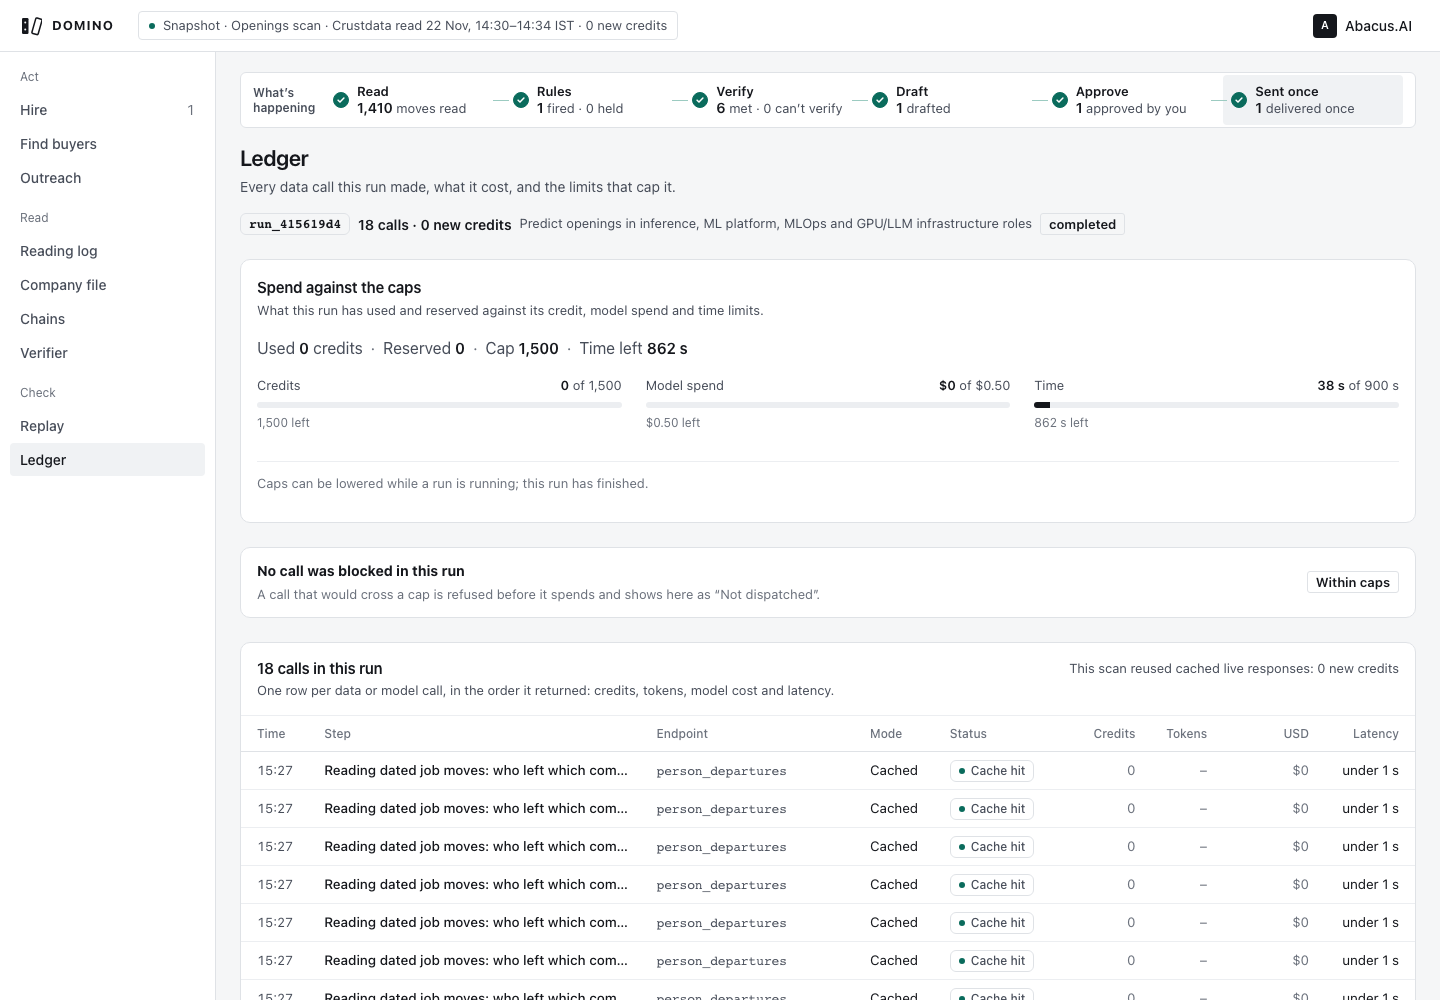
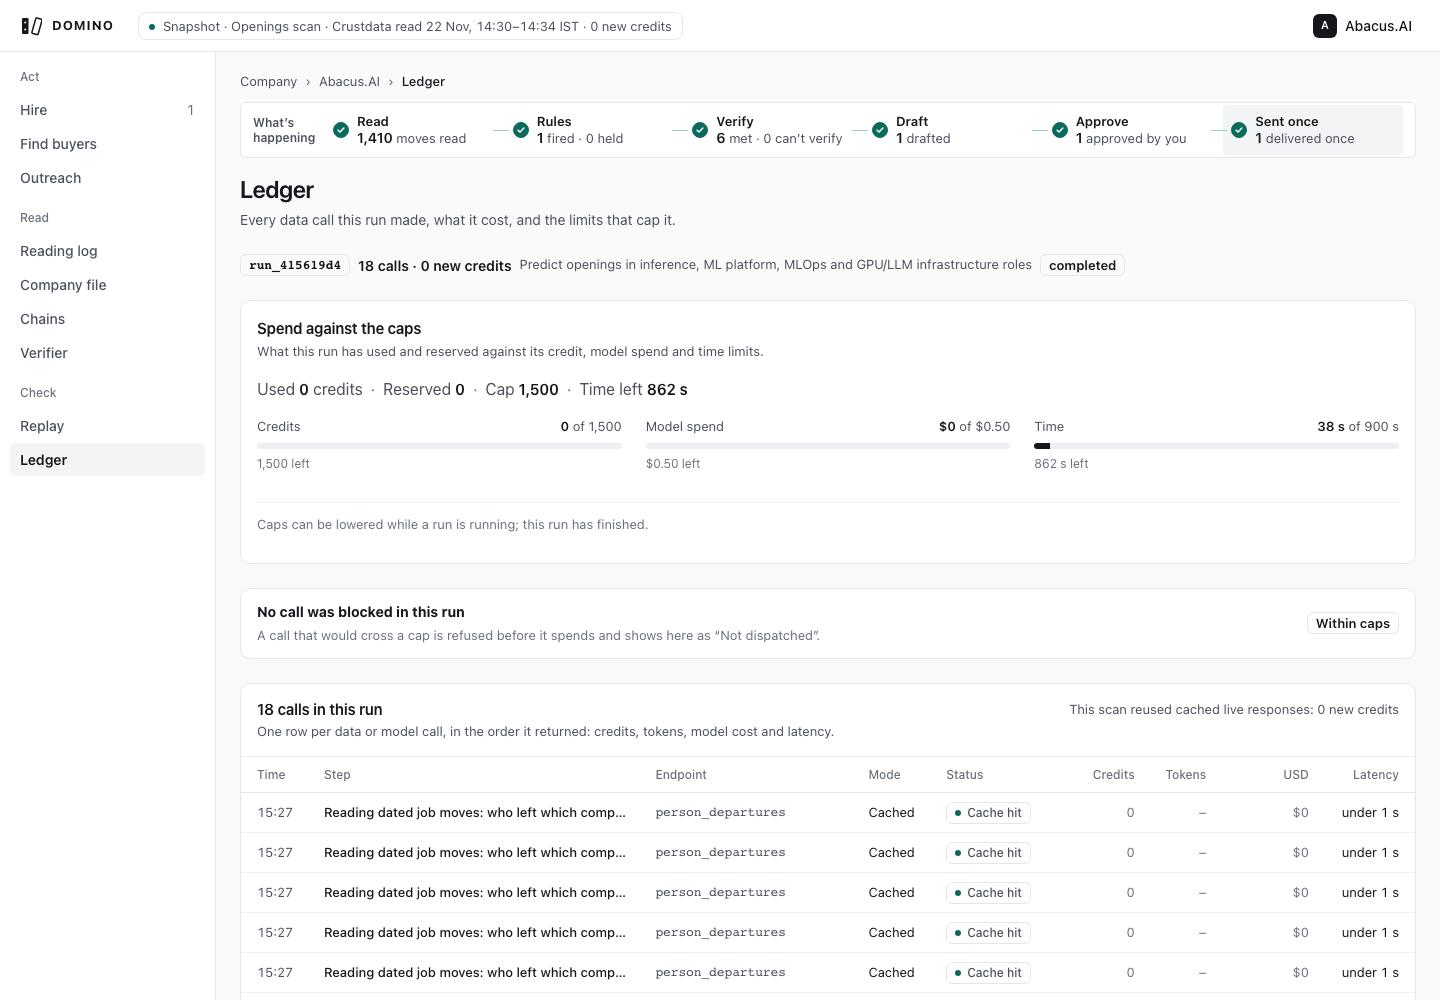
Replay + Ledger: use p5-shell Attio tokens (type scale, radii, hairlines, row/head heights, cell padding) instead of hardcoded px

diff --git a/web2/src/features/ledger/ledger.css b/web2/src/features/ledger/ledger.css
@@ -1,59 +1,59 @@
 .ledger { display: grid; gap: 16px; }
-.lg-run { display: flex; align-items: center; gap: 10px; flex-wrap: wrap; font-size: 14px; }
+.lg-run { display: flex; align-items: center; gap: 10px; flex-wrap: wrap; font-size: var(--fs-body); }
 .lg-req { color: var(--ink-2); max-width: 760px; }
 .lg-strip { padding: 16px; display: grid; gap: 16px; }
-.lg-line { margin: 0; font-size: 18px; display: flex; flex-wrap: wrap; gap: 10px; align-items: baseline; color: var(--ink-2); }
-.lg-line b { color: var(--ink); font-weight: 600; font-variant-numeric: tabular-nums; }
+.lg-line { margin: 0; font-size: var(--fs-h); display: flex; flex-wrap: wrap; gap: 10px; align-items: baseline; color: var(--ink-2); }
+.lg-line b { color: var(--ink); font-weight: var(--w-semi); font-variant-numeric: tabular-nums; }
 .lg-line .sep { color: var(--ink-3); }
 .lg-caps { display: grid; grid-template-columns: repeat(3, minmax(0, 1fr)); gap: 24px; }
-.lg-cap-h { display: flex; justify-content: space-between; font-size: 14px; margin-bottom: 6px; }
-.lg-cap-h b { font-weight: 600; }
-.lg-cap-n { font-size: 13px; color: var(--ink-2); margin-top: 6px; }
-.lg-cap.hit .lg-cap-n { color: var(--ink); font-weight: 600; }
+.lg-cap-h { display: flex; justify-content: space-between; font-size: var(--fs-body); margin-bottom: 6px; }
+.lg-cap-h b { font-weight: var(--w-semi); }
+.lg-cap-n { font-size: var(--fs-ui); color: var(--ink-2); margin-top: 6px; }
+.lg-cap.hit .lg-cap-n { color: var(--ink); font-weight: var(--w-semi); }
 /* ported from the mock (.capbar) */
 .capbar { height: 10px; border-radius: 2px; background: var(--rule-2); overflow: hidden; display: flex; }
 .capbar i { display: block; height: 100%; transition: width 250ms var(--ease); }
 .capbar i.u { background: var(--ink); }
 .capbar i.r { background: repeating-linear-gradient(135deg, var(--acc) 0 3px, transparent 3px 6px); border-left: 1px solid var(--surface); }
 .lg-cap.hit .capbar i.u { background: var(--ink); }
-.lg-lower { display: flex; align-items: center; gap: 10px; flex-wrap: wrap; font-size: 13px; padding-top: 12px; border-top: 1px solid var(--rule-2); }
-.lg-lower label { font-weight: 600; font-size: 13px; }
-.lg-lower input { width: 96px; height: 26px; padding: 0 8px; border: 1px solid var(--rule); border-radius: 4px; background: var(--surface); color: var(--ink); }
+.lg-lower { display: flex; align-items: center; gap: 10px; flex-wrap: wrap; font-size: var(--fs-ui); padding-top: 12px; border-top: var(--hair-2); }
+.lg-lower label { font-weight: var(--w-semi); font-size: var(--fs-ui); }
+.lg-lower input { width: 96px; height: 26px; padding: 0 8px; border: var(--hair); border-radius: var(--r-sm); background: var(--surface); color: var(--ink); }
 .lg-lower input:disabled { color: var(--ink-3); }
 /* ported from the mock (.blocked) */
-.blocked { border: 1px solid var(--ink); border-radius: 6px; background: var(--surface); padding: 14px 16px; display: grid; grid-template-columns: 1fr auto; gap: 12px; align-items: center; font-size: 15px; }
-.blocked .faint { font-size: 13px; margin-top: 4px; }
+.blocked { border: 1px solid var(--ink); border-radius: var(--r); background: var(--surface); padding: 14px 16px; display: grid; grid-template-columns: 1fr auto; gap: 12px; align-items: center; font-size: var(--fs-lead); }
+.blocked .faint { font-size: var(--fs-ui); margin-top: 4px; }
 .blocked.quiet { border-color: var(--rule); }
-.lg-intro { justify-content: space-between; font-size: 15px; }
-.lg-note { font-size: 13px; color: var(--ink-2); }
-.lg-table td { font-size: 14px; }
-.lg-table td.mono { font-size: 13px; white-space: nowrap; }
+.lg-intro { justify-content: space-between; font-size: var(--fs-lead); }
+.lg-note { font-size: var(--fs-ui); color: var(--ink-2); }
+.lg-table td { font-size: var(--fs-body); }
+.lg-table td.mono { font-size: var(--fs-ui); white-space: nowrap; }
 .lg-table tbody tr { height: 34px; }
 .lg-table td.num, .lg-table th.num { white-space: nowrap; }
-.lg-table .lg-bad { color: var(--err); font-weight: 600; }
+.lg-table .lg-bad { color: var(--err); font-weight: var(--w-semi); }
 .lg-table tr.blocked-row td { background: var(--row-hover); }
-.lg-table tfoot td { border-top: 1px solid var(--rule); padding: 10px 12px; font-size: 14px; }
-.lg-drawer { position: fixed; inset: 56px 0 0 auto; width: min(960px, 92vw); background: var(--canvas); border-left: 1px solid var(--rule); padding: 16px 20px; z-index: 20; overflow: auto; }
+.lg-table tfoot td { border-top: var(--hair); padding: 10px 12px; font-size: var(--fs-body); }
+.lg-drawer { position: fixed; inset: 56px 0 0 auto; width: min(960px, 92vw); background: var(--canvas); border-left: var(--hair); padding: 16px 20px; z-index: 20; overflow: auto; }
 .lg-drawer-h { display: flex; justify-content: space-between; align-items: center; margin-bottom: 12px; }
-.lg-drawer-h h2 { font-size: 16px; font-weight: 600; margin: 0; }
+.lg-drawer-h h2 { font-size: var(--fs-sec); font-weight: var(--w-semi); margin: 0; }
 @media (max-width: 900px) { .lg-caps { grid-template-columns: 1fr; } }
 /* Schibsted tabular figures space "." and "," wide ("3. 50"); keep proportional figures, right-aligned. */
 .ledger .num, .ledger [data-num], .lg-line b { font-variant-numeric: normal; }
-.ledger .panel > header h2 { font-size: 15px; }
+.ledger .panel > header h2 { font-size: var(--fs-lead); }
 .lg-table td.lg-step { max-width: 380px; white-space: nowrap; overflow: hidden; text-overflow: ellipsis; }
 .lg-table tbody td { padding-top: 7px; padding-bottom: 7px; }
-.lg-sum { font-weight: 600; font-size: 14px; }
+.lg-sum { font-weight: var(--w-semi); font-size: var(--fs-body); }
 /* p4 polish: section heading + one-line description, scrolling data grid with a sticky header, 4px-grid cells */
 .lg-sec-h { display: grid; gap: 2px; }
-.lg-sec-h h2 { font-size: 15px; font-weight: 600; margin: 0; color: var(--ink); }
-.lg-sec-h span { font-size: 13px; font-weight: 400; color: var(--ink-2); }
-.lg-strip .lg-line { font-size: 16px; }
+.lg-sec-h h2 { font-size: var(--fs-lead); font-weight: var(--w-semi); margin: 0; color: var(--ink); }
+.lg-sec-h span { font-size: var(--fs-ui); font-weight: 400; color: var(--ink-2); }
+.lg-strip .lg-line { font-size: var(--fs-sec); }
 .lg-scroll { max-height: 560px; overflow: auto; }
 .lg-scroll:focus-visible { outline: 2px solid var(--acc); outline-offset: -2px; }
-.lg-table thead th { position: sticky; top: 0; z-index: 1; background: var(--surface); padding: 10px 16px; font-size: 12px; font-weight: 500; color: var(--ink-2); box-shadow: inset 0 -1px 0 var(--rule); border-bottom: 0; }
+.lg-table thead th { position: sticky; top: 0; z-index: 1; background: var(--surface); padding: 10px 16px; font-size: var(--fs-cap); font-weight: var(--w-med); color: var(--ink-2); box-shadow: inset 0 -1px 0 var(--rule); border-bottom: 0; }
 .lg-table tbody td, .lg-table tfoot td { padding: 8px 16px; vertical-align: middle; }
 .lg-table tfoot td { position: sticky; bottom: 0; background: var(--surface); box-shadow: inset 0 1px 0 var(--rule); border-top: 0; }
-.lg-table td.lg-time { font-variant-numeric: tabular-nums; color: var(--ink-2); white-space: nowrap; font-size: 13px; }
+.lg-table td.lg-time { font-variant-numeric: tabular-nums; color: var(--ink-2); white-space: nowrap; font-size: var(--fs-ui); }
 .lg-table td.mono { color: var(--ink-2); }
 .ledger .panel > header { align-items: flex-start; }
 .lg-note { white-space: nowrap; padding-top: 2px; }
@@ -61,30 +61,30 @@
 
 /* Attio pass (17:05 note): flat hairline cards r10, compact 38px grid rows, 12px muted headers, pill status with state dot, 8px-step spacing */
 .ledger { gap: 24px; max-width: 1200px; }
-.ledger .panel, .ledger .blocked { border-radius: 10px; border-color: var(--rule); box-shadow: none; }
+.ledger .panel, .ledger .blocked { border-radius: var(--r-lg); border-color: var(--rule); box-shadow: none; }
 .ledger .panel > header { padding: 14px 16px; }
-.lg-sec-h h2 { font-size: 15px; font-weight: 600; letter-spacing: -.01em; }
-.lg-table thead th { height: 36px; padding: 0 16px; font-size: 12px; font-weight: 500; letter-spacing: 0; color: var(--ink-3); background: var(--surface); }
-.lg-table tbody tr { height: 38px; }
-.lg-table tbody td { padding: 0 16px; font-size: 13.5px; height: 38px; }
+.lg-sec-h h2 { font-size: var(--fs-lead); font-weight: var(--w-semi); letter-spacing: var(--track-snug); }
+.lg-table thead th { height: var(--head-h); padding: 0 var(--cell-x-edge); font-size: var(--fs-cap); font-weight: var(--w-med); letter-spacing: 0; color: var(--ink-3); background: var(--surface); }
+.lg-table tbody tr { height: var(--row-h); }
+.lg-table tbody td { padding: 0 var(--cell-x-edge); font-size: var(--fs-ui); height: var(--row-h); }
 .lg-table tbody tr:hover td { background: var(--row-hover); }
-.lg-table td.lg-step { color: var(--ink); font-weight: 500; }
-.lg-pill { display: inline-flex; align-items: center; gap: 6px; height: 22px; padding: 0 8px; border: 1px solid var(--rule); border-radius: 6px; font-size: 12px; font-weight: 500; color: var(--ink-2); background: var(--surface); }
+.lg-table td.lg-step { color: var(--ink); font-weight: var(--w-med); }
+.lg-pill { display: inline-flex; align-items: center; gap: 6px; height: 22px; padding: 0 8px; border: var(--hair); border-radius: var(--r); font-size: var(--fs-cap); font-weight: var(--w-med); color: var(--ink-2); background: var(--surface); }
 .lg-pill i { width: 6px; height: 6px; border-radius: 50%; background: var(--ink-3); }
 .lg-pill.ok i { background: var(--acc); }
 .lg-pill.bad { color: var(--err); border-color: color-mix(in srgb, var(--err) 35%, var(--rule)); }
 .lg-pill.bad i { background: var(--err); }
-.lg-run { gap: 8px; font-size: 13px; }
-.lg-run .st.mono { border-radius: 6px; }
-.lg-line { font-size: 15px; gap: 8px; }
-.lg-line b { font-size: 15px; }
-.lg-cap-h { font-size: 13px; color: var(--ink-2); }
+.lg-run { gap: 8px; font-size: var(--fs-ui); }
+.lg-run .st.mono { border-radius: var(--r); }
+.lg-line { font-size: var(--fs-lead); gap: 8px; }
+.lg-line b { font-size: var(--fs-lead); }
+.lg-cap-h { font-size: var(--fs-ui); color: var(--ink-2); }
 .lg-cap-h b { color: var(--ink); }
 .capbar { height: 6px; border-radius: 3px; }
-.lg-cap-n { font-size: 12px; color: var(--ink-3); }
+.lg-cap-n { font-size: var(--fs-cap); color: var(--ink-3); }
 .lg-strip { padding: 16px; gap: 16px; }
 .lg-lower { padding-top: 12px; }
-.blocked { padding: 12px 16px; font-size: 14px; }
-.lg-lower input, .ledger .btn { border-radius: 8px; }
+.blocked { padding: 12px 16px; font-size: var(--fs-body); }
+.lg-lower input, .ledger .btn { border-radius: var(--r-ctl); }
 .ledger { max-width: none; grid-template-columns: minmax(0, 1fr); }
-.lg-table thead th, .lg-table tbody td, .lg-table tfoot td { padding-left: 12px; padding-right: 12px; } .lg-table th:first-child, .lg-table td:first-child { padding-left: 16px; } .lg-table th:last-child, .lg-table td:last-child { padding-right: 16px; } .lg-table td.lg-step { max-width: 300px; }
+.lg-table thead th, .lg-table tbody td, .lg-table tfoot td { padding-left: var(--cell-x); padding-right: var(--cell-x); } .lg-table th:first-child, .lg-table td:first-child { padding-left: 16px; } .lg-table th:last-child, .lg-table td:last-child { padding-right: 16px; } .lg-table td.lg-step { max-width: 300px; }

diff --git a/web2/src/features/replay/replay.css b/web2/src/features/replay/replay.css
@@ -7,69 +7,69 @@
 .rp-ev.on { background: var(--acc); border-color: var(--acc); }
 .rp-range { position: absolute; left: 0; right: 0; top: 2px; width: 100%; height: 24px; margin: 0; opacity: 0; cursor: pointer; }
 .rp-track-wrap:has(.rp-range:focus-visible) .rp-track { box-shadow: 0 0 0 2px var(--surface), 0 0 0 4px var(--acc); }
-.rp-ticks { position: absolute; left: 0; right: 0; top: 26px; height: 16px; font-size: 13px; color: var(--ink-2); }
+.rp-ticks { position: absolute; left: 0; right: 0; top: 26px; height: 16px; font-size: var(--fs-ui); color: var(--ink-2); }
 .rp-ticks span { position: absolute; transform: translateX(-50%); white-space: nowrap; }
 .rp-ticks span:first-child { transform: none; }
 .rp-ticks span:last-child { transform: translateX(-100%); }
-.rp-now { display: grid; gap: 2px; min-width: 200px; font-size: 13px; color: var(--ink-2); }
-.rp-now b { font-size: 16px; color: var(--ink); font-weight: 600; }
-.rp-lead { font-size: 20px; font-weight: 600; letter-spacing: -.01em; margin: 0 0 16px; }
-.rp-lead b { font-weight: 600; }
+.rp-now { display: grid; gap: 2px; min-width: 200px; font-size: var(--fs-ui); color: var(--ink-2); }
+.rp-now b { font-size: var(--fs-sec); color: var(--ink); font-weight: var(--w-semi); }
+.rp-lead { font-size: var(--fs-h); font-weight: var(--w-semi); letter-spacing: var(--track-snug); margin: 0 0 16px; }
+.rp-lead b { font-weight: var(--w-semi); }
 .rp-table { max-width: 760px; }
-.rp-table td { font-size: 15px; }
-.rp-why { margin: 16px 0 4px; font-size: 15px; color: var(--ink); max-width: 760px; }
-.rp-lock { margin: 0; font-size: 14px; color: var(--ink-2); }
+.rp-table td { font-size: var(--fs-lead); }
+.rp-why { margin: 16px 0 4px; font-size: var(--fs-lead); color: var(--ink); max-width: 760px; }
+.rp-lock { margin: 0; font-size: var(--fs-body); color: var(--ink-2); }
 .rp-summary { animation: rp-in 220ms var(--ease) both; }
 @keyframes rp-in { from { opacity: 0; transform: translateY(6px); } to { opacity: 1; transform: none; } }
-.rp-drawer { display: grid; grid-template-columns: 120px 1fr; gap: 8px 16px; margin: 0; padding: 16px; border-top: 1px solid var(--rule-2); font-size: 14px; }
-.rp-drawer dt { color: var(--ink-2); font-weight: 600; }
+.rp-drawer { display: grid; grid-template-columns: 120px 1fr; gap: 8px 16px; margin: 0; padding: 16px; border-top: var(--hair-2); font-size: var(--fs-body); }
+.rp-drawer dt { color: var(--ink-2); font-weight: var(--w-semi); }
 .rp-drawer dd { margin: 0; }
-.rp-cohort { list-style: none; margin: 0; padding: 0; max-height: 320px; overflow: auto; border: 1px solid var(--rule-2); border-radius: 4px; }
-.rp-cohort li { display: grid; grid-template-columns: 200px 110px 1fr 90px; gap: 12px; padding: 6px 10px; border-bottom: 1px solid var(--rule-2); font-size: 13px; }
+.rp-cohort { list-style: none; margin: 0; padding: 0; max-height: 320px; overflow: auto; border: var(--hair-2); border-radius: var(--r-sm); }
+.rp-cohort li { display: grid; grid-template-columns: 200px 110px 1fr 90px; gap: 12px; padding: 6px 10px; border-bottom: var(--hair-2); font-size: var(--fs-ui); }
 .rp-cohort li:last-child { border-bottom: 0; }
-.rp-held .pad { font-size: 14px; }
-.rp-empty p { margin: 0 0 12px; font-size: 15px; max-width: 760px; }
-.rp-ghost { margin: 0; padding-left: 20px; color: var(--ink-2); font-size: 14px; display: grid; gap: 6px; }
+.rp-held .pad { font-size: var(--fs-body); }
+.rp-empty p { margin: 0 0 12px; font-size: var(--fs-lead); max-width: 760px; }
+.rp-ghost { margin: 0; padding-left: 20px; color: var(--ink-2); font-size: var(--fs-body); display: grid; gap: 6px; }
 @media (prefers-reduced-motion: reduce) { .rp-summary { animation: none; } .rp-ev { transition: none; } }
 .replay .num, .replay [data-num] { font-variant-numeric: normal; }
-.replay .panel > header h2 { font-size: 15px; }
+.replay .panel > header h2 { font-size: var(--fs-lead); }
 .rp-ghost-t td { color: var(--ink-2); }
 .ghost-bar { display: inline-block; width: 36px; height: 10px; border-radius: 2px; background: var(--rule-2); vertical-align: middle; }
 .rp-play > .btn { min-width: 140px; justify-content: center; }
 .rp-head { position: absolute; top: -6px; width: 2px; height: 20px; margin-left: -1px; background: var(--ink); }
-.rp-src { margin: 0; padding: 8px 16px; font-size: 13px; color: var(--ink-2); border-bottom: 1px solid var(--rule-2); }
-.rp-lock { color: var(--ink); font-weight: 600; }
+.rp-src { margin: 0; padding: 8px 16px; font-size: var(--fs-ui); color: var(--ink-2); border-bottom: var(--hair-2); }
+.rp-lock { color: var(--ink); font-weight: var(--w-semi); }
 /* p4 polish: data-grid rhythm, sub-headings, cohort header row */
-.rp-table th { font-size: 12px; font-weight: 500; color: var(--ink-2); padding: 10px 16px; }
+.rp-table th { font-size: var(--fs-cap); font-weight: var(--w-med); color: var(--ink-2); padding: 10px 16px; }
 .rp-table td { padding: 10px 16px; vertical-align: middle; white-space: nowrap; }
 .rp-table td:first-child { white-space: normal; }
-.rp-sub { margin: 16px 0 2px; font-size: 14px; font-weight: 600; }
-.rp-subline { margin: 0 0 8px; font-size: 13px; color: var(--ink-2); max-width: 760px; }
-.rp-empty .rp-table { margin-bottom: 12px; border: 1px solid var(--rule-2); border-radius: 4px; border-collapse: separate; border-spacing: 0; }
+.rp-sub { margin: 16px 0 2px; font-size: var(--fs-body); font-weight: var(--w-semi); }
+.rp-subline { margin: 0 0 8px; font-size: var(--fs-ui); color: var(--ink-2); max-width: 760px; }
+.rp-empty .rp-table { margin-bottom: 12px; border: var(--hair-2); border-radius: var(--r-sm); border-collapse: separate; border-spacing: 0; }
 .rp-cohort li > span { min-width: 0; overflow: hidden; text-overflow: ellipsis; white-space: nowrap; }
 .rp-cohort li > span:last-child { text-align: right; }
-.rp-cohort li.rp-cohort-h { position: sticky; top: 0; background: var(--surface); font-size: 12px; font-weight: 500; color: var(--ink-2); padding-top: 8px; padding-bottom: 8px; }
+.rp-cohort li.rp-cohort-h { position: sticky; top: 0; background: var(--surface); font-size: var(--fs-cap); font-weight: var(--w-med); color: var(--ink-2); padding-top: 8px; padding-bottom: 8px; }
 .rp-cohort li { padding: 8px 12px; align-items: center; }
 .rp-date { font-variant-numeric: tabular-nums; }
 
 /* Attio pass (17:05 note): hairline r10 cards, compact grid, display lead with tight tracking, 8px controls */
 .replay { gap: 24px; max-width: 1200px; }
-.replay .panel { border-radius: 10px; border-color: var(--rule); box-shadow: none; }
+.replay .panel { border-radius: var(--r-lg); border-color: var(--rule); box-shadow: none; }
 .replay .panel > header { padding: 14px 16px; }
-.replay .panel > header h2 { font-size: 15px; font-weight: 600; letter-spacing: -.01em; }
-.replay .btn { border-radius: 8px; }
+.replay .panel > header h2 { font-size: var(--fs-lead); font-weight: var(--w-semi); letter-spacing: var(--track-snug); }
+.replay .btn { border-radius: var(--r-ctl); }
 .rp-play > .btn { height: 34px; }
-.rp-lead { font-size: 22px; font-weight: 600; letter-spacing: -.02em; margin: 0 0 16px; }
-.rp-table { border: 1px solid var(--rule); border-radius: 8px; border-collapse: separate; border-spacing: 0; overflow: hidden; }
-.rp-table th { height: 36px; padding: 0 16px; font-size: 12px; font-weight: 500; color: var(--ink-3); background: var(--surface); }
-.rp-table td { height: 38px; padding: 0 16px; font-size: 14px; }
+.rp-lead { font-size: var(--fs-h); font-weight: var(--w-semi); letter-spacing: var(--track-tight); margin: 0 0 16px; }
+.rp-table { border: var(--hair); border-radius: var(--r-ctl); border-collapse: separate; border-spacing: 0; overflow: hidden; }
+.rp-table th { height: var(--head-h); padding: 0 var(--cell-x-edge); font-size: var(--fs-cap); font-weight: var(--w-med); color: var(--ink-3); background: var(--surface); }
+.rp-table td { height: var(--row-h); padding: 0 var(--cell-x-edge); font-size: var(--fs-body); }
 .rp-table tbody tr:hover td { background: var(--row-hover); }
-.rp-empty .rp-table { border-color: var(--rule); border-radius: 8px; }
-.rp-cohort { border-color: var(--rule); border-radius: 8px; }
-.rp-cohort li { min-height: 36px; padding: 0 12px; }
+.rp-empty .rp-table { border-color: var(--rule); border-radius: var(--r-ctl); }
+.rp-cohort { border-color: var(--rule); border-radius: var(--r-ctl); }
+.rp-cohort li { min-height: var(--head-h); padding: 0 12px; }
 .rp-cohort li.rp-cohort-h { color: var(--ink-3); min-height: 34px; }
 .rp-cohort li:not(.rp-cohort-h):hover { background: var(--row-hover); }
-.rp-src { padding: 8px 16px; font-size: 12px; color: var(--ink-3); }
-.rp-sub { font-size: 14px; letter-spacing: -.01em; }
-.rp-drawer { padding: 16px; font-size: 13.5px; }
-.rp-drawer dt { font-weight: 500; color: var(--ink-3); }
+.rp-src { padding: 8px 16px; font-size: var(--fs-cap); color: var(--ink-3); }
+.rp-sub { font-size: var(--fs-body); letter-spacing: var(--track-snug); }
+.rp-drawer { padding: 16px; font-size: var(--fs-ui); }
+.rp-drawer dt { font-weight: var(--w-med); color: var(--ink-3); }
